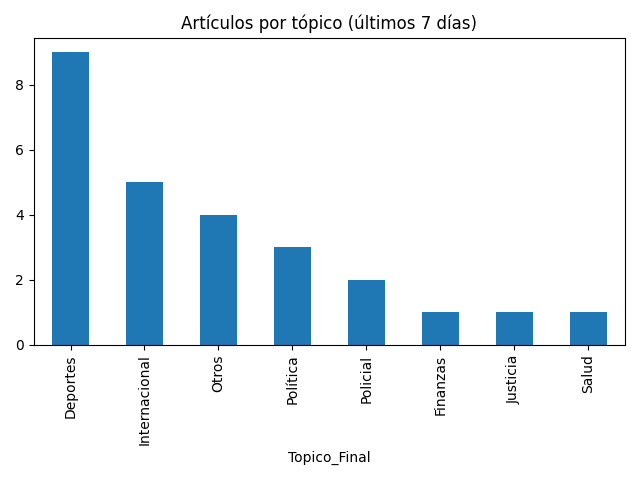
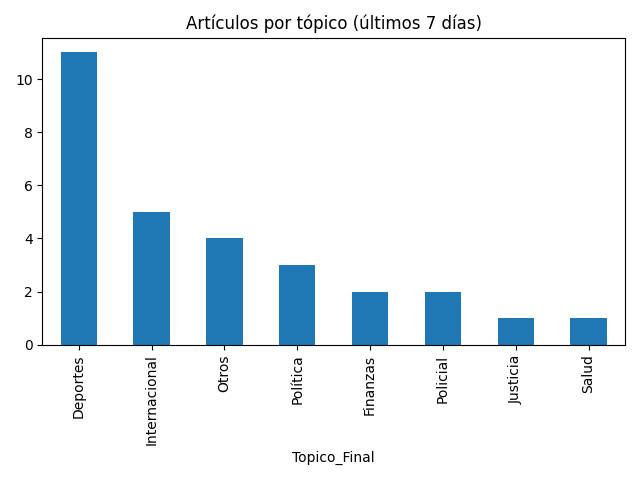
📰 Newsletter 2025-06-25

diff --git a/salida/2025-06-25-newsletter.md b/salida/2025-06-25-newsletter.md
@@ -1,6 +1,6 @@
 # Newsletter semanal (2025-06-25)
 
-**Total de artículos (18 Jun – 25 Jun):** 26  
+**Total de artículos (18 Jun – 25 Jun):** 29  
 
 **Tópicos cubiertos:** 8
 
@@ -17,27 +17,27 @@
 
 | Tópico | Notas | % Total | Vistas | Vistas/Nota |
 |---|---:|---:|---:|---:|
-| Deportes | 9 | 35% | 33 | 3.7 |
-| Internacional | 5 | 19% | 11 | 2.2 |
-| Otros | 4 | 15% | 43 | 10.8 |
-| Política | 3 | 12% | 4 | 1.3 |
-| Policial | 2 | 8% | 7 | 3.5 |
-| Finanzas | 1 | 4% | 1 | 1.0 |
-| Justicia | 1 | 4% | 4 | 4.0 |
-| Salud | 1 | 4% | 2 | 2.0 |
+| Deportes | 11 | 38% | 35 | 3.2 |
+| Internacional | 5 | 17% | 11 | 2.2 |
+| Otros | 4 | 14% | 43 | 10.8 |
+| Política | 3 | 10% | 4 | 1.3 |
+| Finanzas | 2 | 7% | 1 | 0.5 |
+| Policial | 2 | 7% | 7 | 3.5 |
+| Justicia | 1 | 3% | 4 | 4.0 |
+| Salud | 1 | 3% | 2 | 2.0 |
 
 ---
 
 ## ✨ Artículos destacados
 
-### Con las reservas en la mira, llega la misión del FMI
-*24 Jun 2025*
+### Después de 12 años vuelve el Rally Cordobés a Río Cuarto
+*25 Jun 2025*
 
-### Boca vs. Auckland City, con la necesidad de ganar y esperar
-*24 Jun 2025*
+### Se viene limpieza en Boca: tras el fracaso en el Mundial de Clubes se amplió la lista de jugadores que se irán
+*25 Jun 2025*
 
-### ARCA extendió el plazo para presentar las declaraciones juradas de Ganancias y Bienes Personales
-*24 Jun 2025*
+### Se puso en marcha un plan de cierre de sucursales del Banco Nación: cuántas eliminarán
+*25 Jun 2025*
 
 
 ---
